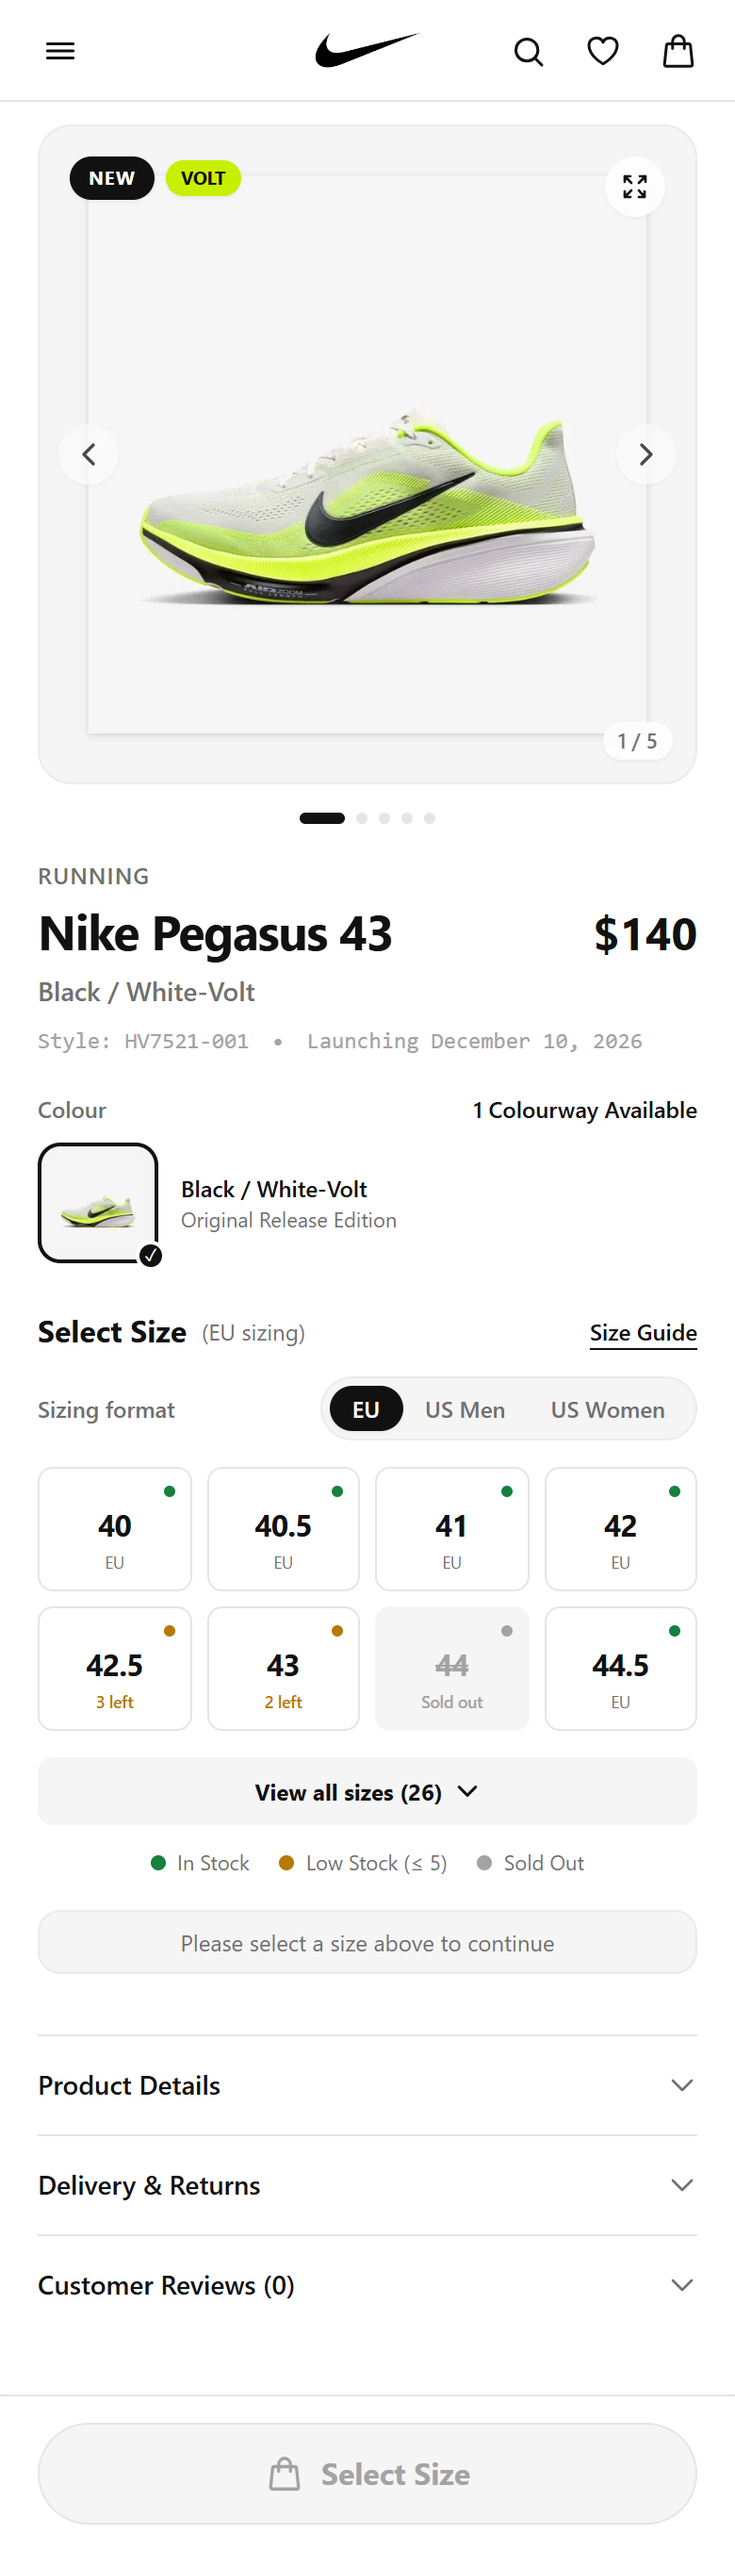
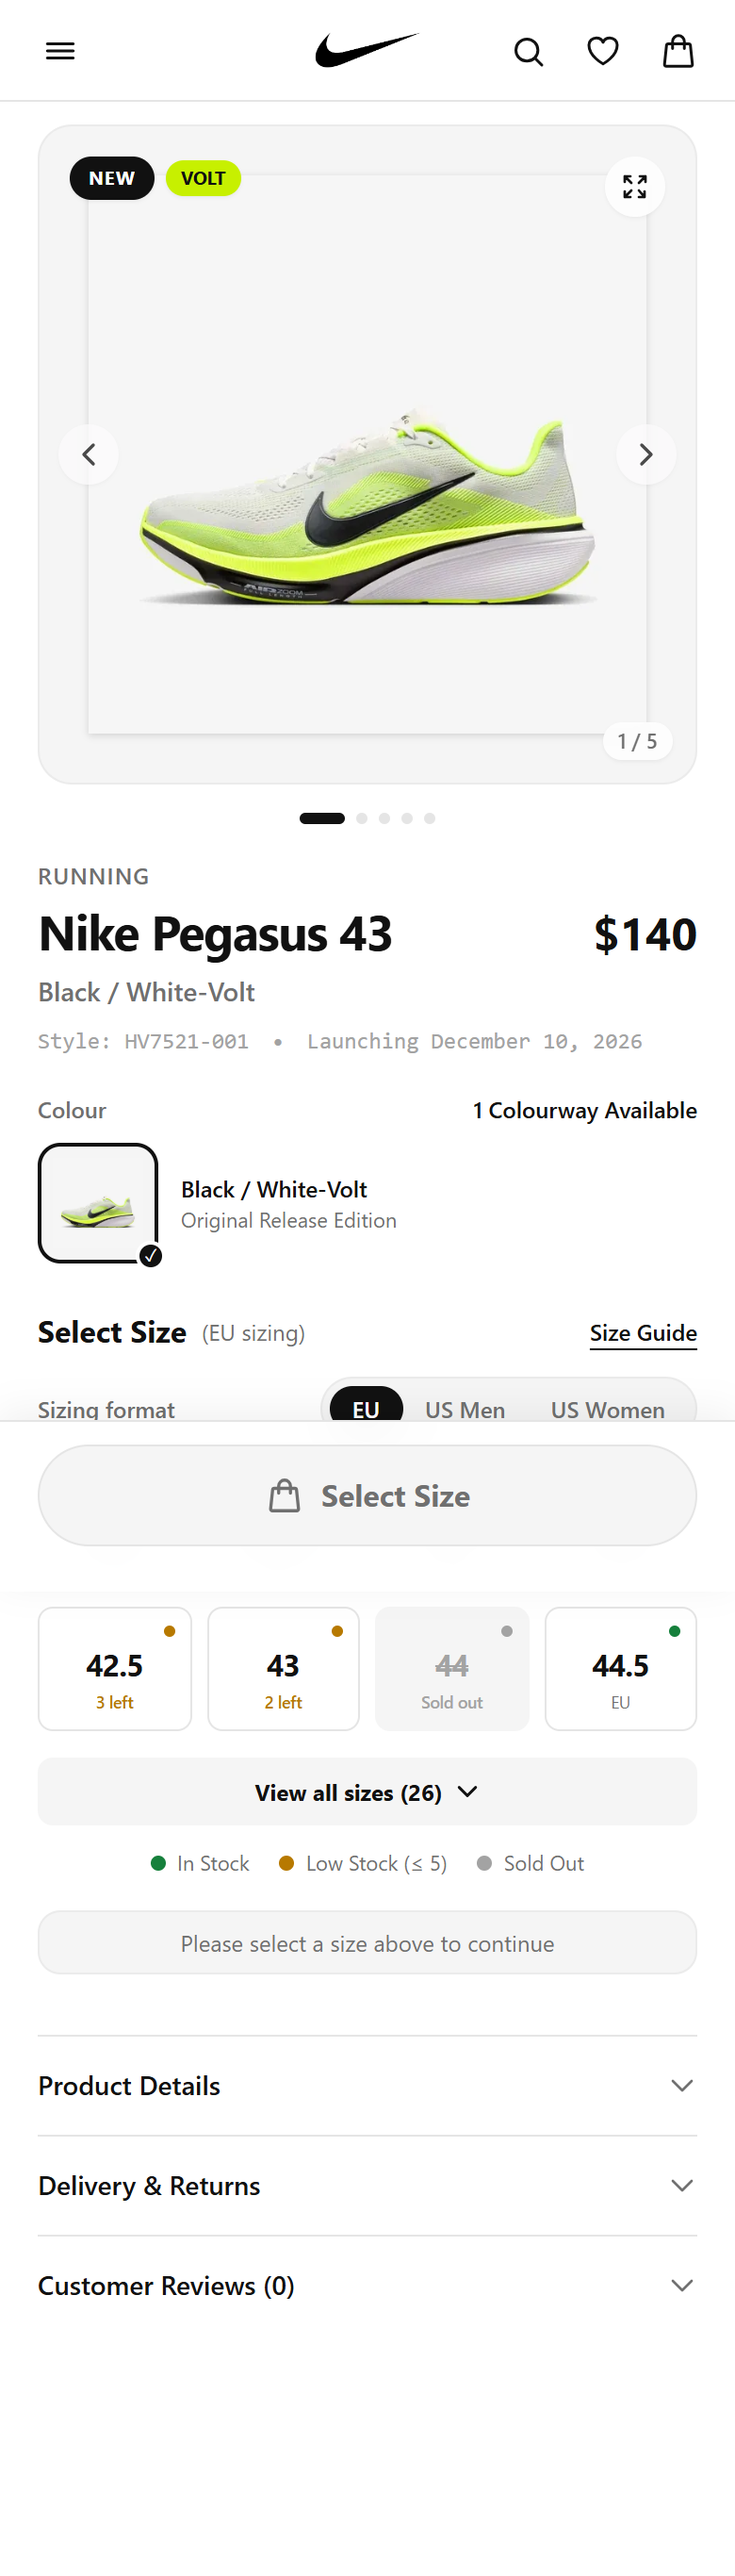
feat: keep Nike Swoosh mathematically centered and dock sticky CTA at 844 frame bottom with 24px gapping

diff --git a/components/AddToBag.tsx b/components/AddToBag.tsx
@@ -17,8 +17,15 @@ export default function AddToBag({ selectedVariant }: AddToBagProps) {
   const isDisabled =
     !selectedVariant || selectedVariant.stock_status === "sold_out";
 
-  const handleAdd = () => {
-    if (isDisabled || !selectedVariant) return;
+  const handleAction = () => {
+    if (isDisabled) {
+      // If no size is selected yet, smoothly scroll to size grid
+      const sizeGrid = document.querySelector('[data-testid="size-grid"]');
+      if (sizeGrid) {
+        sizeGrid.scrollIntoView({ behavior: "smooth", block: "center" });
+      }
+      return;
+    }
 
     setIsAdding(true);
 
@@ -70,23 +77,49 @@ export default function AddToBag({ selectedVariant }: AddToBagProps) {
         </div>
       )}
 
-      {/* Sticky Bottom Bar with Safe-Area insets */}
-      <div className="sticky bottom-0 z-30 w-full bg-white/95 backdrop-blur-md border-t border-[#E5E5E5] px-5 py-3.5 pb-[max(0.875rem,env(safe-area-inset-bottom))] shadow-lg">
-        <div className="max-w-[430px] mx-auto">
+      {/* Fixed Sticky Bottom Bar at 844 frame bottom with exactly 24px bottom gapping */}
+      <div
+        className="fixed bottom-0 left-0 right-0 z-30 w-full max-w-[430px] mx-auto bg-white/95 backdrop-blur-md border-t border-[#E5E5E5] px-5 pt-3 shadow-[0_-4px_20px_rgba(0,0,0,0.06)] transition-all"
+        style={{ paddingBottom: "24px" }}
+      >
+        <div className="max-w-[430px] mx-auto flex flex-col gap-2">
+          {/* When a size is selected, show concise confirmation above the button */}
+          {selectedVariant && (
+            <div className="flex items-center justify-between text-[11px] px-1 animate-fade-in">
+              <span className="text-[#111111] font-semibold">
+                Selected: <span className="font-bold">EU {selectedVariant.size_eu}</span>{" "}
+                <span className="text-[#707070] font-normal">
+                  (M {selectedVariant.size_us_men} / W {selectedVariant.size_us_women})
+                </span>
+              </span>
+              {selectedVariant.stock_status === "low_stock" ? (
+                <span className="text-[#B77900] font-bold text-[10px] bg-amber-50 px-2 py-0.5 rounded-full border border-amber-200">
+                  Only {selectedVariant.stock_quantity} left
+                </span>
+              ) : (
+                <span className="text-[#16803C] font-semibold text-[10px] bg-emerald-50 px-2 py-0.5 rounded-full border border-emerald-200">
+                  In Stock
+                </span>
+              )}
+            </div>
+          )}
+
+          {/* Full-width 54px button sticked with 24px bottom gapping */}
           <button
             type="button"
-            disabled={isDisabled}
-            onClick={handleAdd}
+            data-testid="add-to-bag-button"
+            disabled={isDisabled && isAdding}
+            onClick={handleAction}
             className={`w-full h-[54px] rounded-full text-base font-bold flex items-center justify-center gap-2.5 transition-all duration-200 select-none box-border focus:outline-none focus-visible:ring-2 focus-visible:ring-black focus-visible:ring-offset-2 ${
               isDisabled
-                ? "bg-[#F5F5F5] text-[#A3A3A3] cursor-not-allowed border border-[#E5E5E5]"
+                ? "bg-[#F5F5F5] text-[#707070] hover:text-[#111111] hover:border-[#111111] cursor-pointer border border-[#E5E5E5] active:scale-[0.99]"
                 : isAdding
                 ? "bg-[#C7F000] text-[#111111] scale-[0.99]"
                 : "bg-[#111111] text-white hover:bg-neutral-800 active:scale-[0.98] shadow-md"
             }`}
             aria-label={
               isDisabled
-                ? "Select a size to enable Add to Bag"
+                ? "Select Size (tap to choose size)"
                 : `Add ${productInfo.name} size EU ${selectedVariant?.size_eu} to bag for $${productInfo.price}`
             }
           >

diff --git a/app/page.tsx b/app/page.tsx
@@ -25,8 +25,8 @@ export default function Home() {
         {/* Navigation Header */}
         <Header />
 
-        {/* Main Product Content */}
-        <main className="w-full px-5 pt-3 pb-8 flex flex-col flex-1">
+        {/* Main Product Content with reserved space for fixed bottom bar */}
+        <main className="w-full px-5 pt-3 pb-32 flex flex-col flex-1">
           {/* 1. Product Gallery with Actual Photography */}
           <ProductGallery />
 
